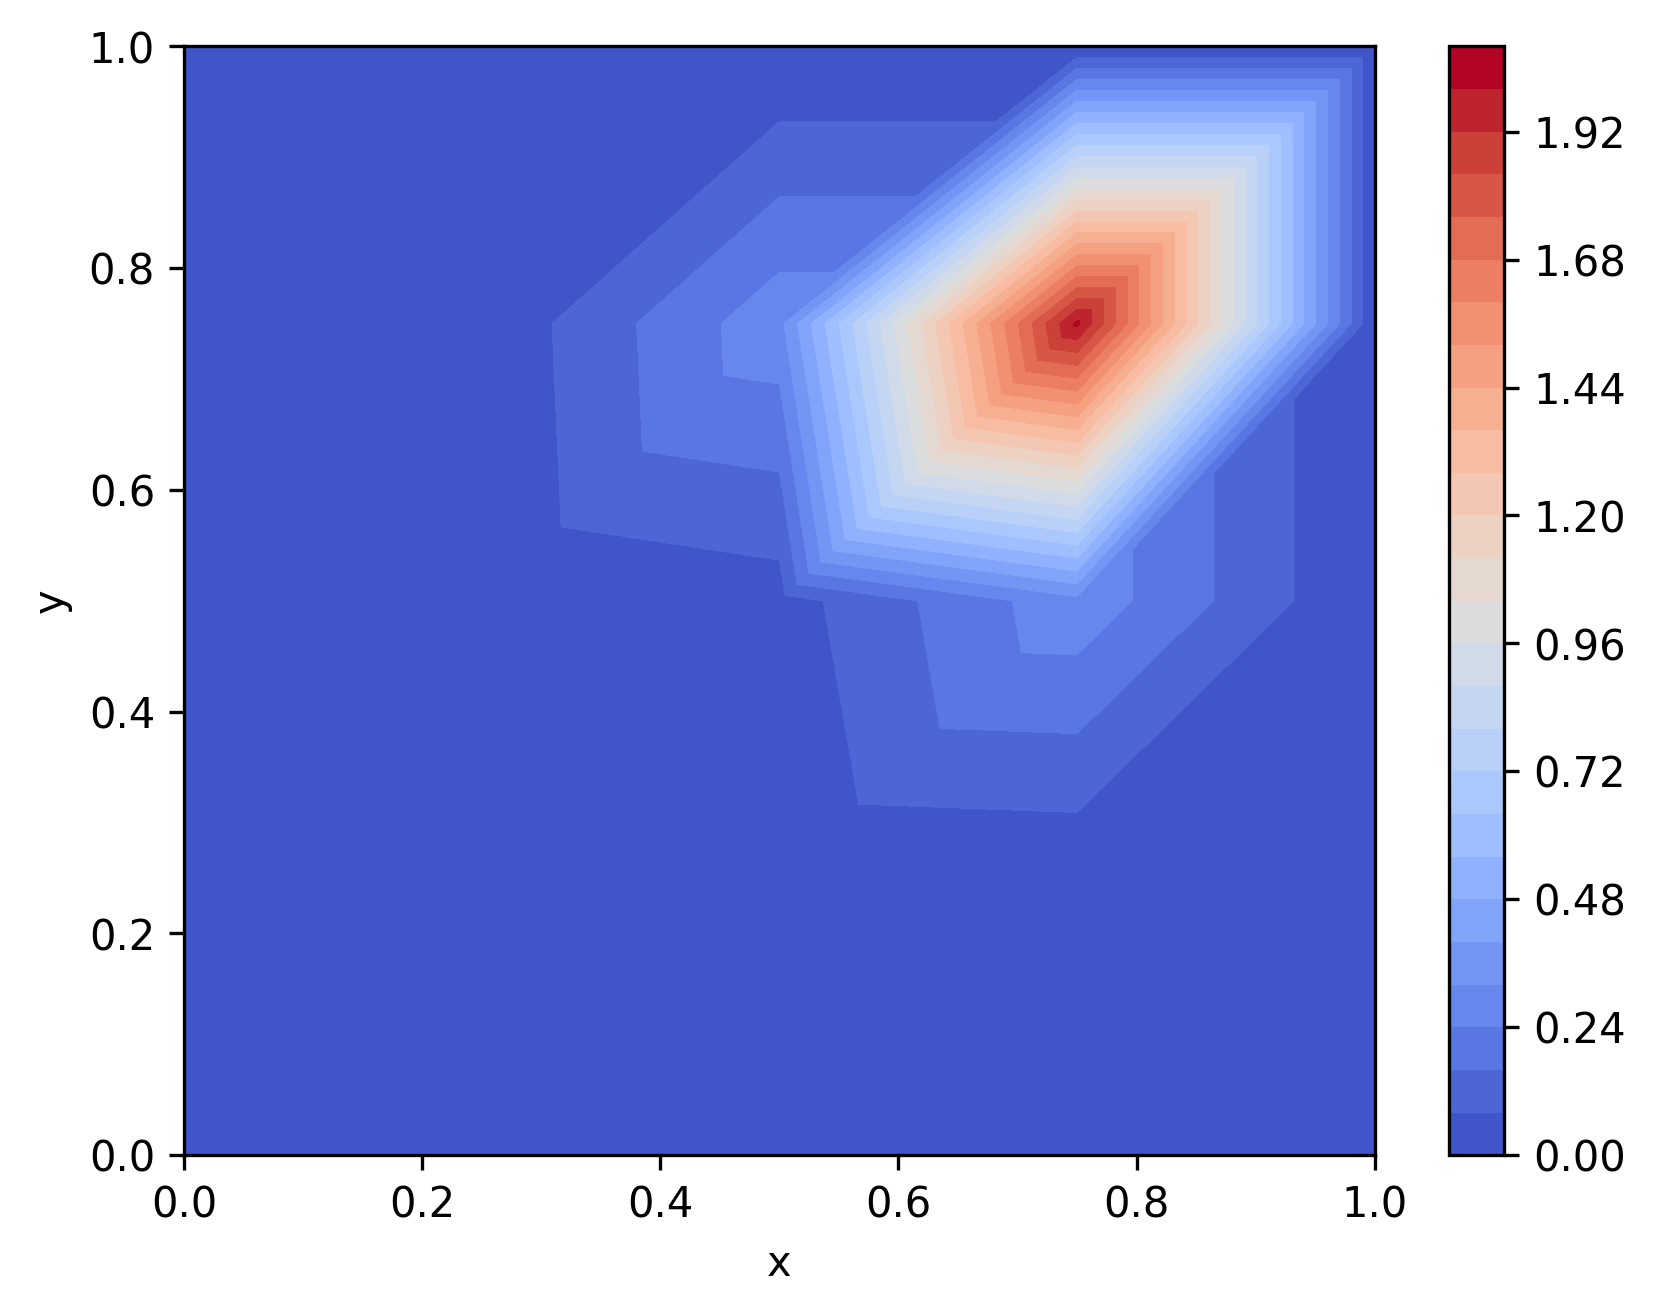
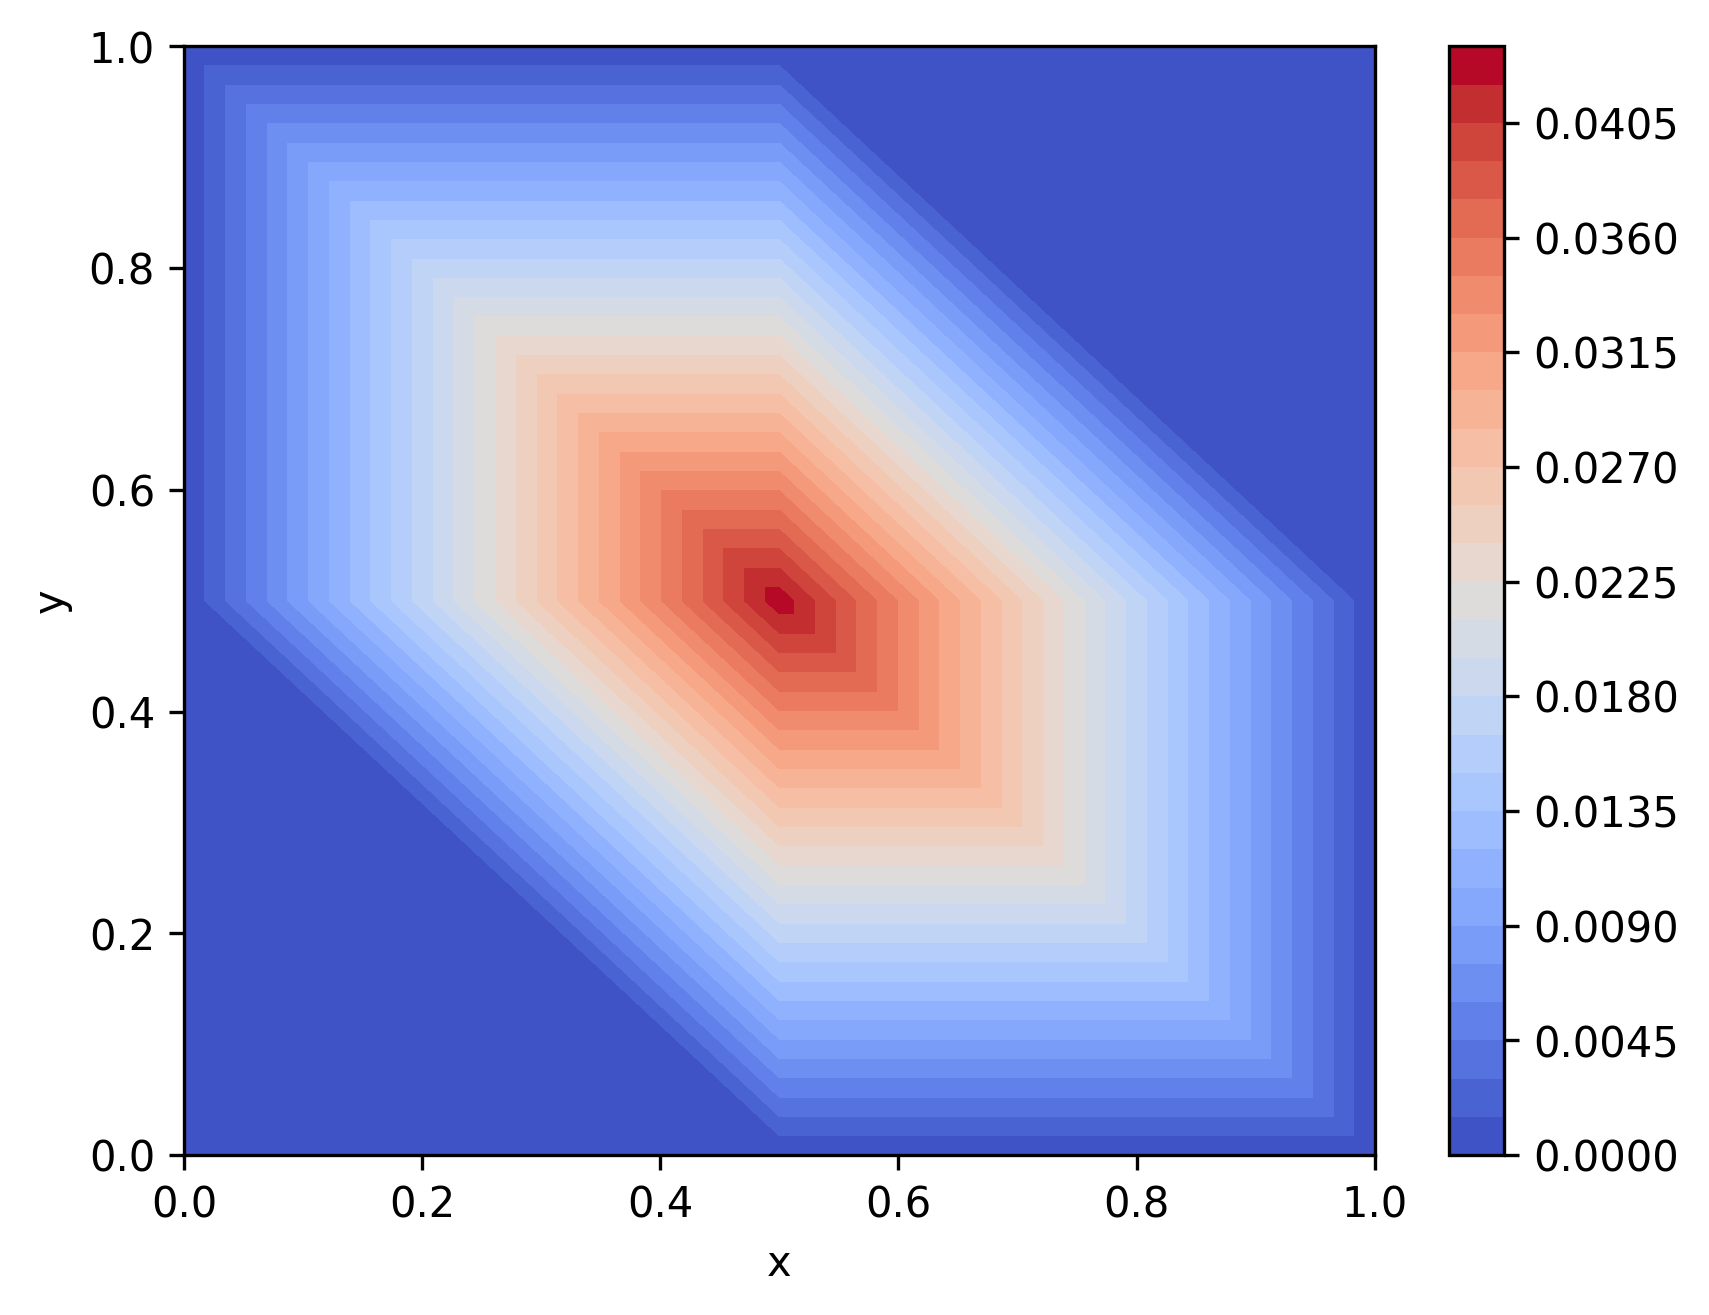
pomaranczowe elementy

diff --git a/main_Laplace2D.py b/main_Laplace2D.py
@@ -13,30 +13,37 @@ from matplotlib.ticker import LinearLocator, FormatStrFormatter
 # This library enhances some plot options
 from mpl_toolkits.mplot3d import Axes3D
 from scipy.interpolate import RegularGridInterpolator
+import scipy.sparse as sp
 # Plots are shown on a new window, where we can move and zoom
 #matplotlib auto  
 
-do_plot = 1
+do_plot = 0
 
 # Problem definition 
 domain = np.array([0,1,0,1])
 
 
 elementType = 1 # 1 = Triangles, 0 = Quadrilaterals
-degree = 2
+degree = 1
 referenceElement = defineRefElement(elementType, degree)
 
 # Creation of the mesh
 nx = 2; ny = nx; h = max(domain[1]-domain[0],domain[3]-domain[2])/nx; # Number of elements in each direction and element size 
 print('Number of elements',np.array([nx,ny]))
 X,T = UniformRectangleMesh(domain,nx,ny,referenceElement)
-if do_plot == 1:
-    plotMesh(X,T,referenceElement); plt.show()
+# plotMesh(X,T,referenceElement); plt.show()
 
 # FE system assembly
 [K,f] = computeSystemLaplace(X,T,referenceElement)
 #[K,f] = computeSystemLaplaceSparse(X,T,referenceElement)
-plt.spy(K); plt.show()
+plt.spy(K, markersize=26, color='black') 
+#ORANGE SPARSITY
+K_orange = sp.lil_matrix(K.shape) if sp.issparse(K) else np.zeros(K.shape)
+idx = [0, 1, 3]
+grid = np.ix_(idx, idx)
+K_orange[grid] = K[grid]
+plt.spy(K_orange, markersize=13, color='orange')
+plt.show()
 
 # Dirichlet boundary conditions
 x1 = domain[0]; x2 = domain[1]
@@ -100,7 +107,7 @@ if do_plot==1:
 
     me = 0
     for _ in range(len(u)):
-        ce = np.abs(0*u[_] - u_analytic[_])
+        ce = np.abs(u[_] - u_analytic[_])
         if ce > me:
             me = ce
             ind = _
